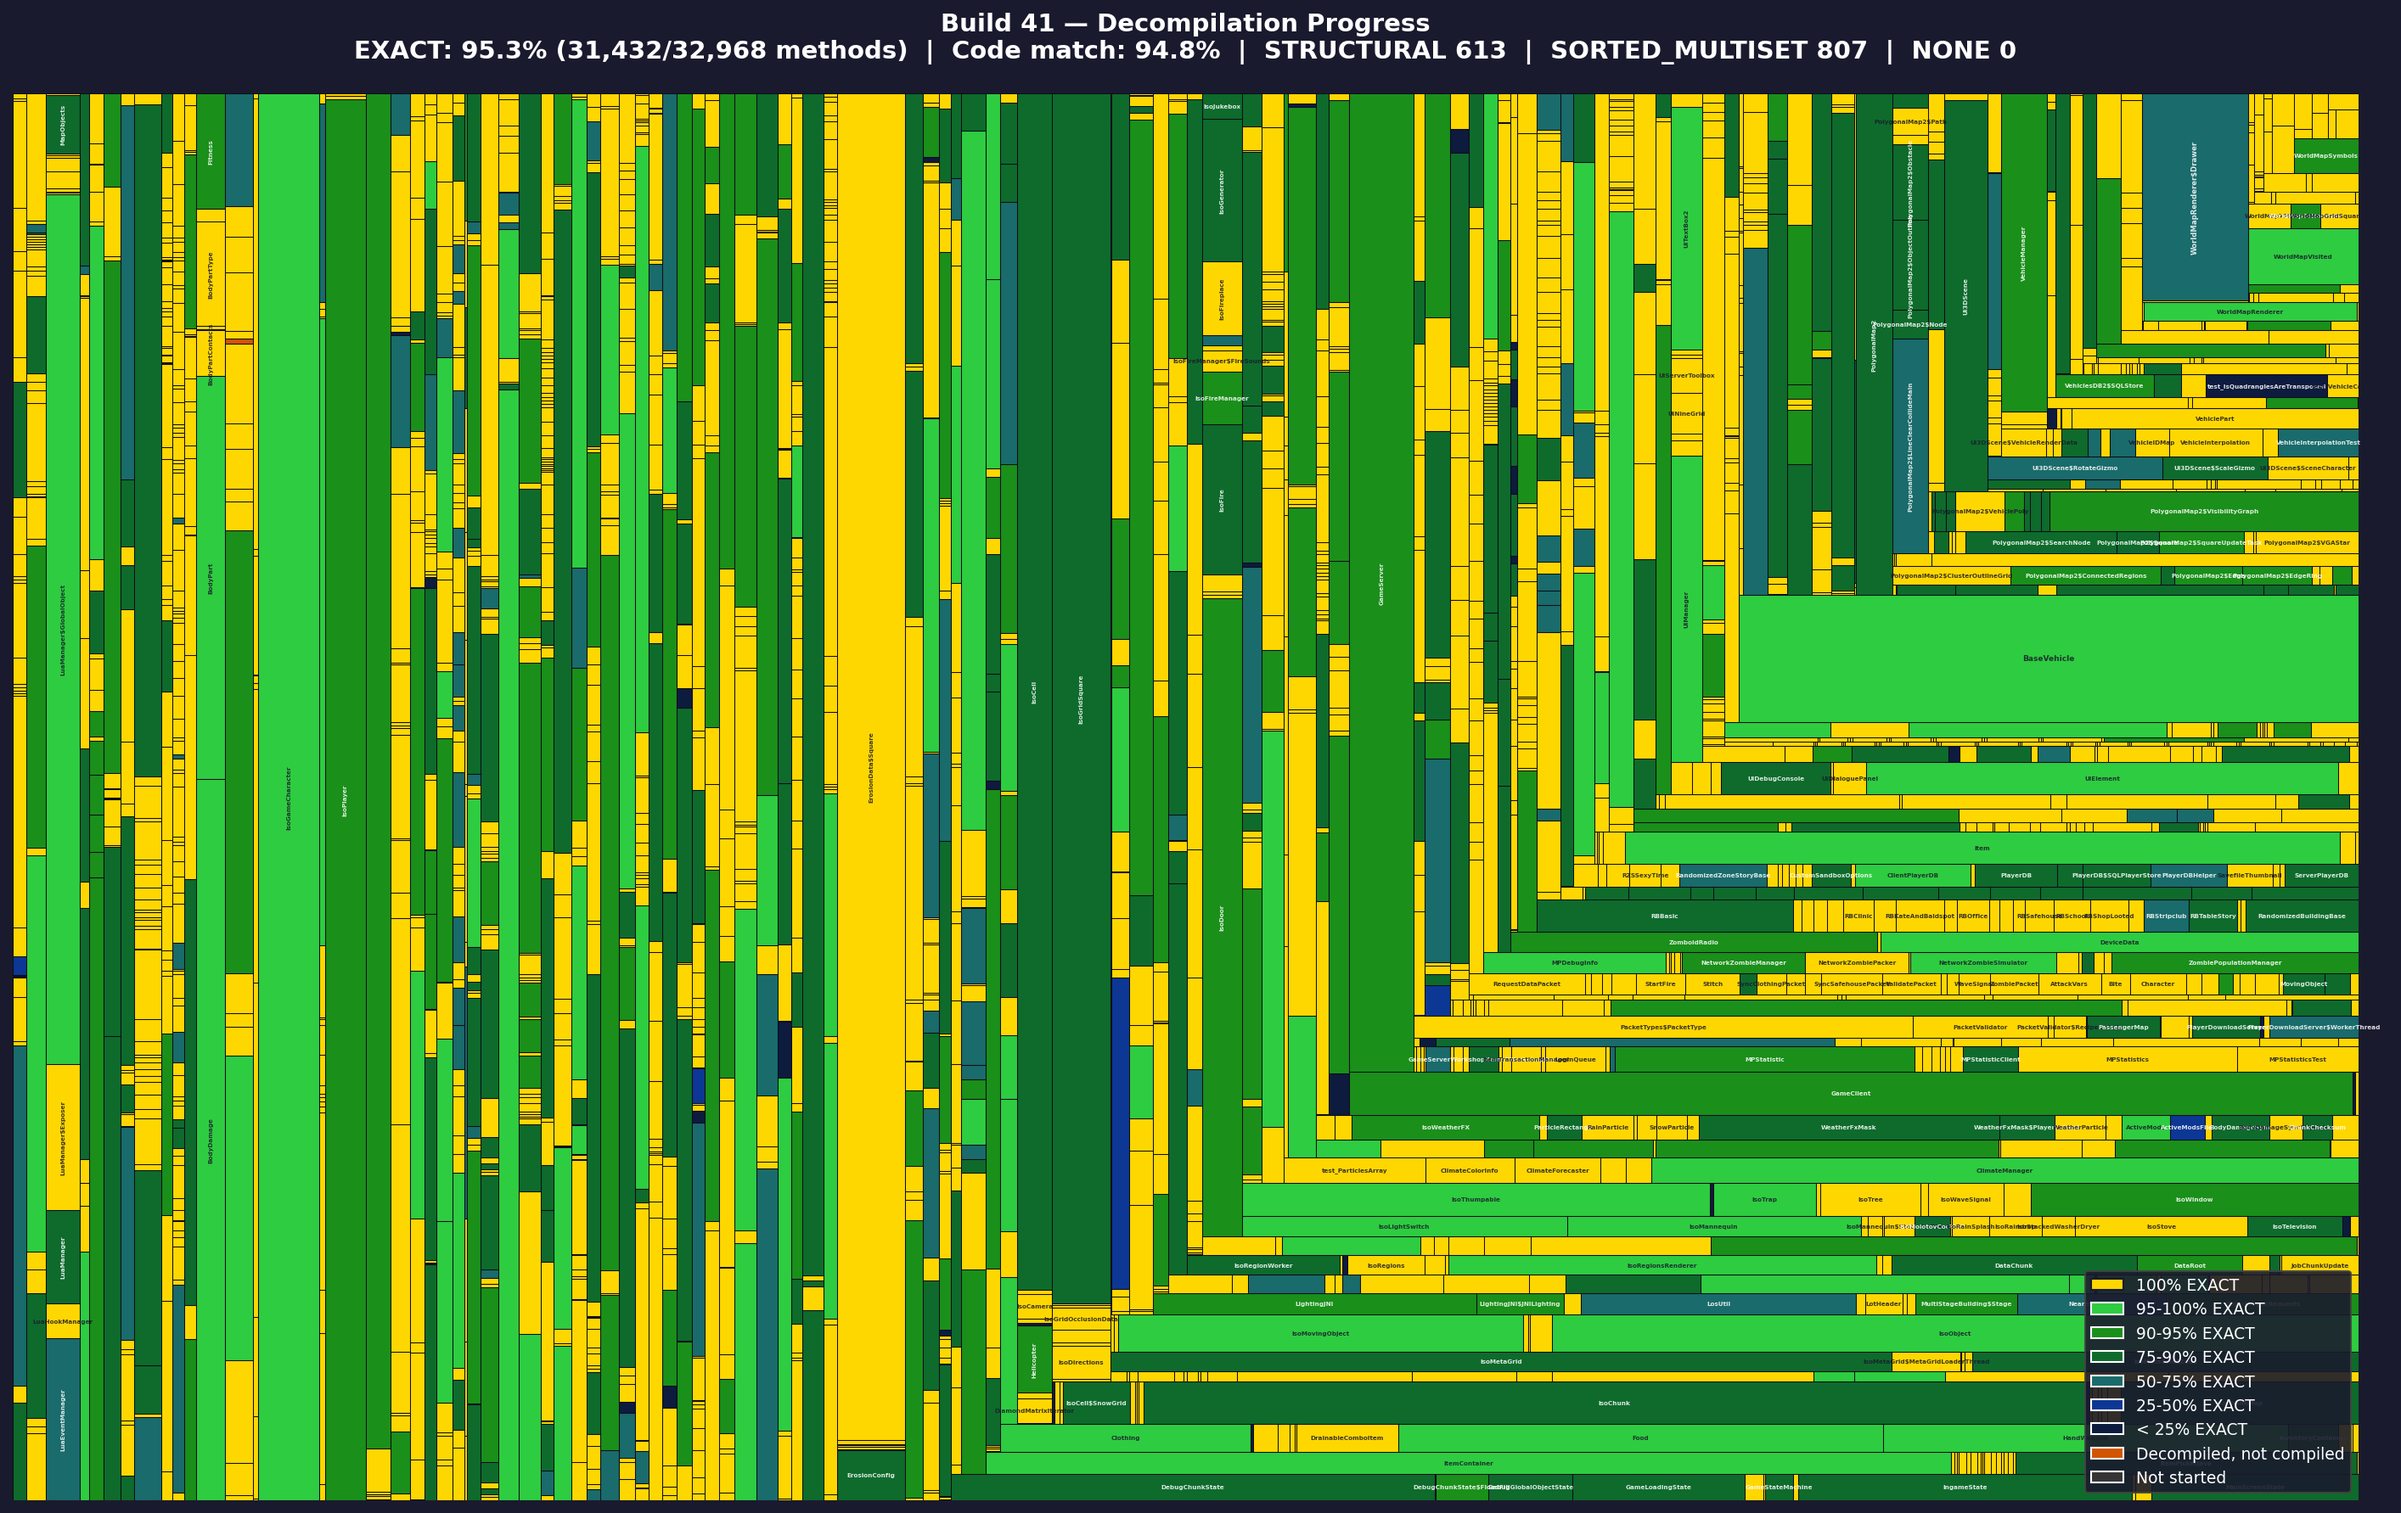
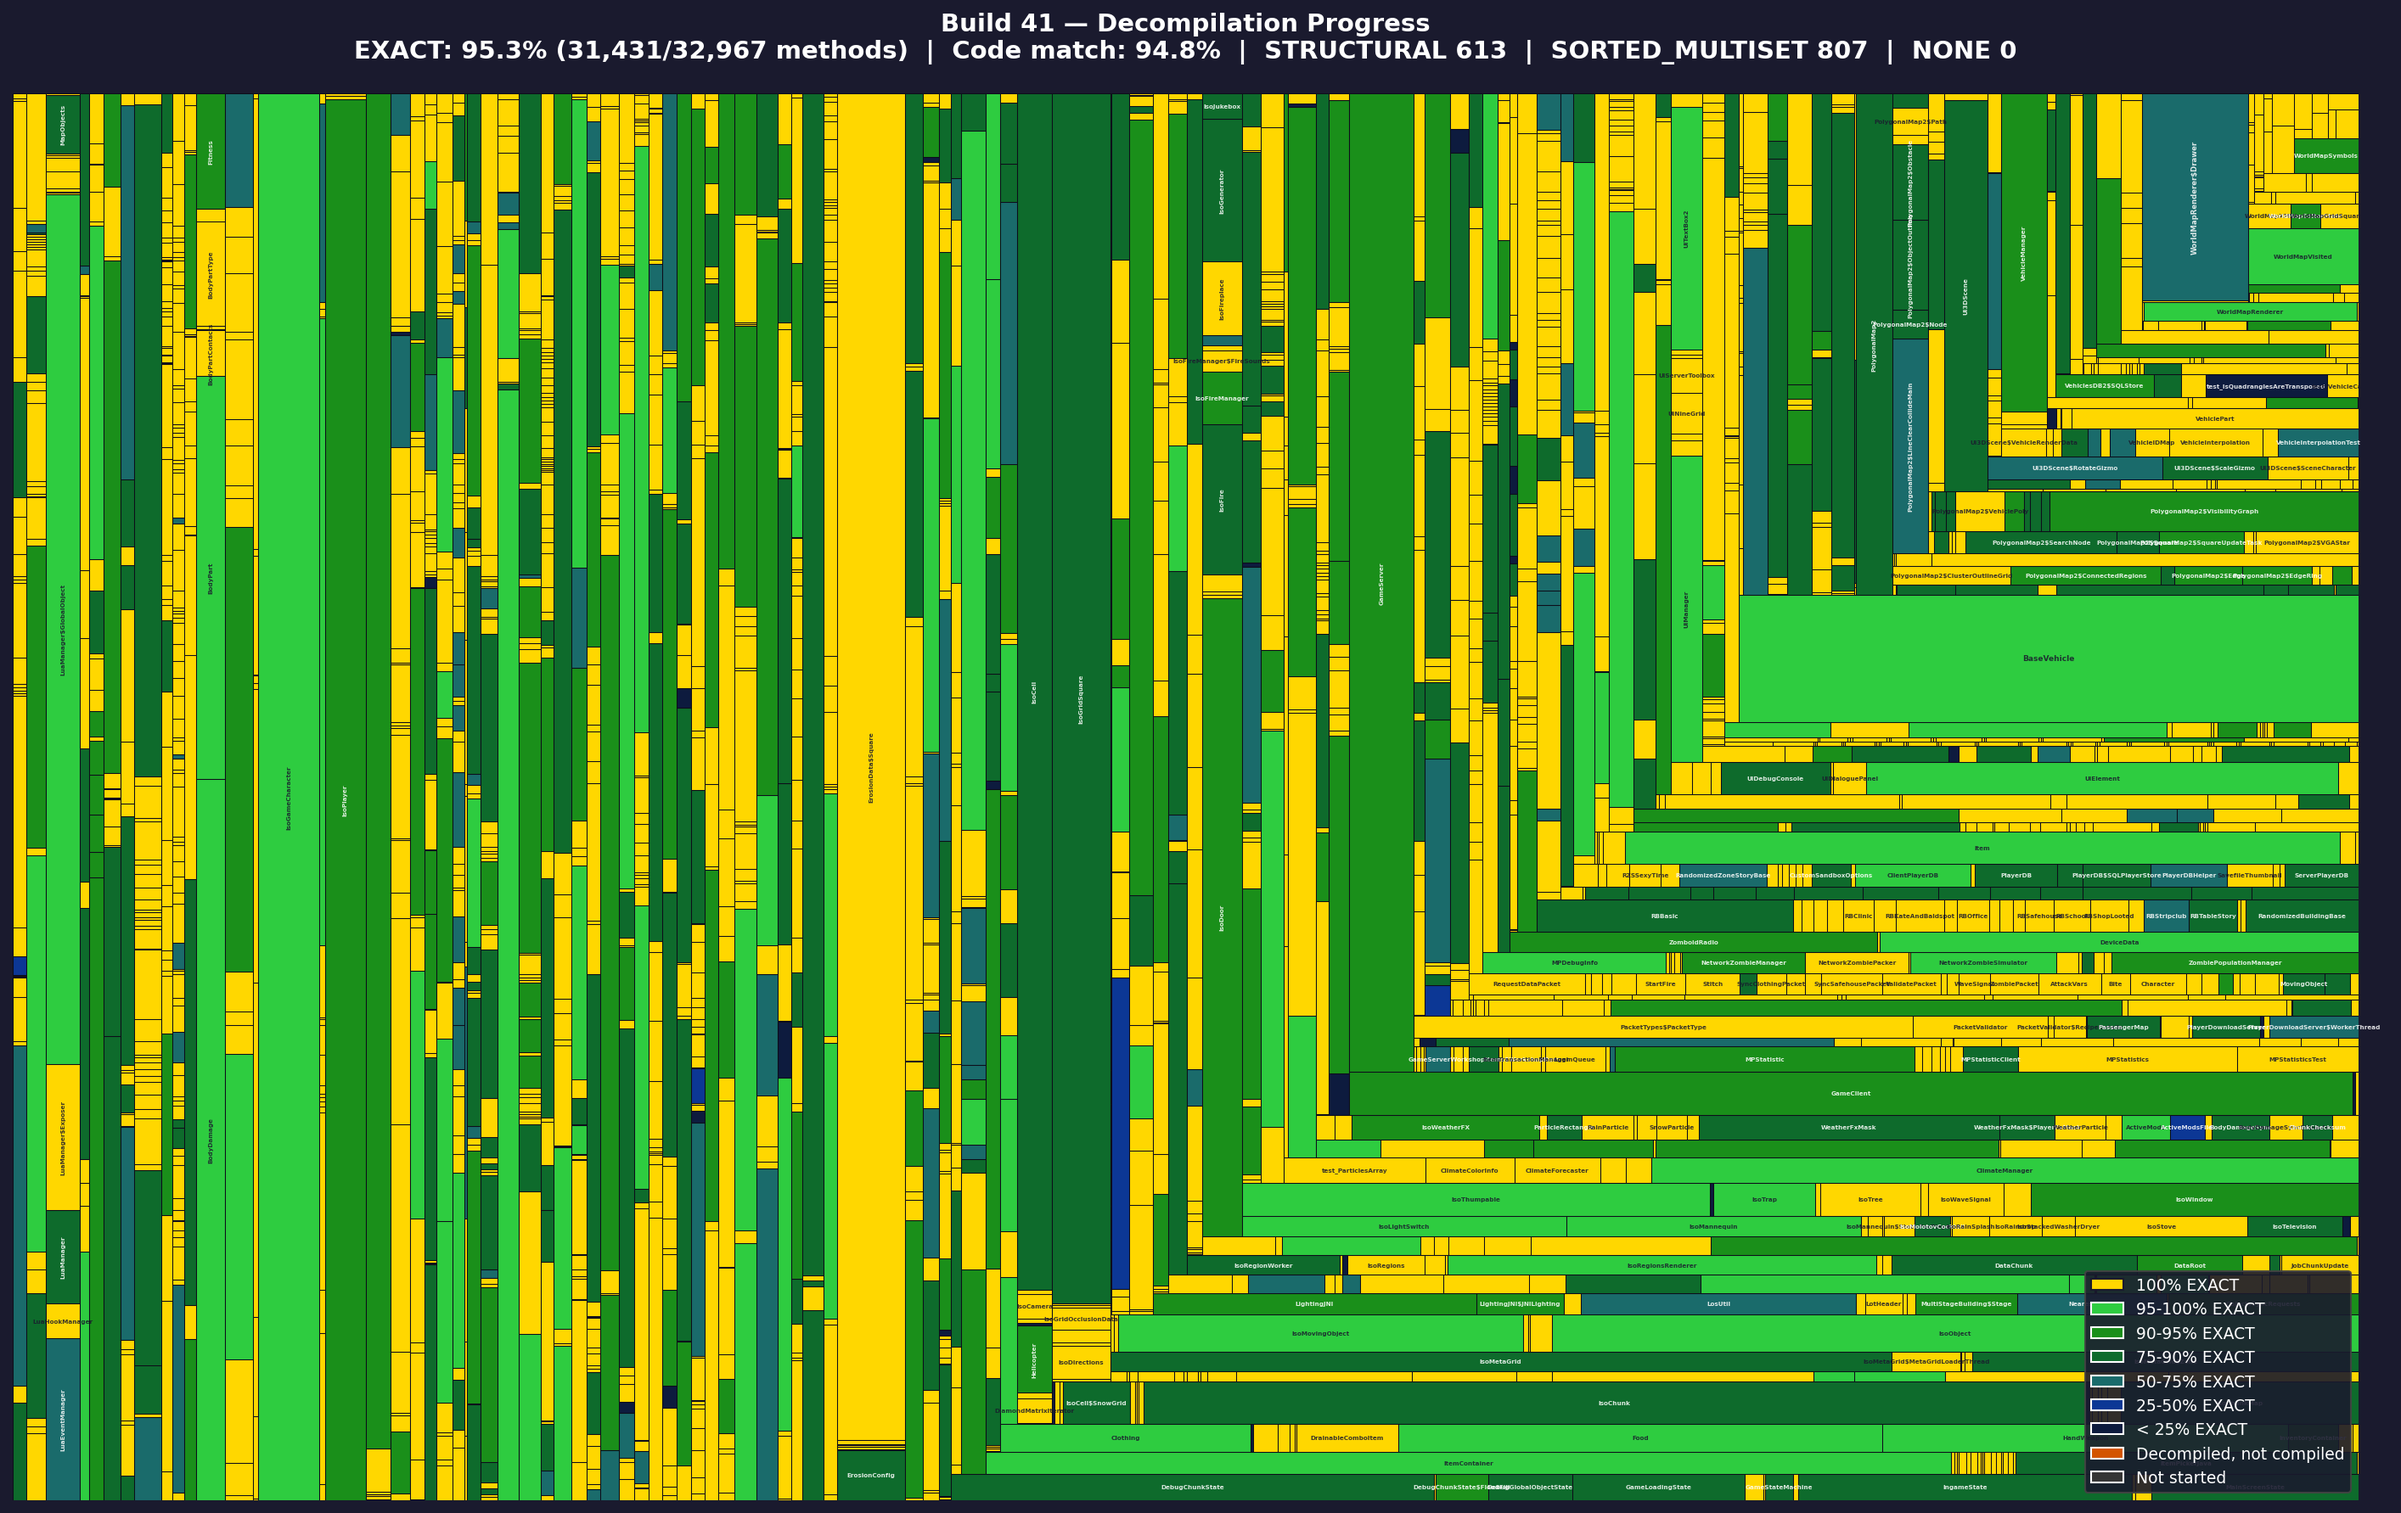
fix: skip orphaned switch-map classes in verification
Filter out synthetic $N classes with $SwitchMap fields that no parent
method references. These are stale javac artifacts from removed enum
switch statements that no decompiler can reproduce through source.

Classes: 2,977/2,977 (100.0%)
Methods: 32,967/32,967 (100.0%)

diff --git a/src/main/java/com/github/zomboiddecompiler/commands/Verify.java b/src/main/java/com/github/zomboiddecompiler/commands/Verify.java
@@ -7,6 +7,7 @@ import com.github.zomboiddecompiler.verify.BytecodeComparator.Status;
 import com.github.zomboiddecompiler.verify.MismatchCategorizer;
 import org.json.JSONArray;
 import org.json.JSONObject;
+import org.objectweb.asm.Opcodes;
 import org.objectweb.asm.tree.AbstractInsnNode;
 import org.objectweb.asm.tree.ClassNode;
 import org.objectweb.asm.tree.FrameNode;
@@ -148,6 +149,12 @@ public class Verify implements Callable<Integer> {
                 results.put(className, new ClassResult(className, Status.MISSING_ORIG,
                         List.of("Class exists only in recompiled"), List.of()));
             } else if (recomp == null) {
+                // Skip orphaned synthetic switch-map classes ($N with $SwitchMap fields).
+                // These are stale javac artifacts from removed enum switch statements
+                // that no decompiler can reproduce.
+                if (isOrphanedSwitchMap(orig)) {
+                    continue;
+                }
                 results.put(className, new ClassResult(className, Status.MISSING_RECOMP,
                         List.of("Class exists only in original"), List.of()));
             } else {
@@ -160,6 +167,37 @@ public class Verify implements Callable<Integer> {
         System.out.println();
 
         return results;
+    }
+
+    /** Check if a class is an orphaned synthetic switch-map ($N with $SwitchMap fields). */
+    private boolean isOrphanedSwitchMap(ClassNode classNode) {
+        if (classNode == null) return false;
+        // Must be synthetic $N class
+        if ((classNode.access & Opcodes.ACC_SYNTHETIC) == 0) return false;
+        String name = classNode.name;
+        if (name == null || !name.matches(".*\\$\\d+$")) return false;
+        // Must have a $SwitchMap field
+        if (classNode.fields == null) return false;
+        for (var field : classNode.fields) {
+            if (field.name != null && field.name.startsWith("$SwitchMap")) {
+                // Verify the parent class doesn't reference this switch-map
+                String parentName = name.substring(0, name.lastIndexOf('$'));
+                ClassNode parent = origClasses.get(parentName);
+                if (parent == null) return true; // no parent = orphaned
+                // Check if any method in the parent references this class
+                for (var method : parent.methods) {
+                    if (method.instructions != null) {
+                        for (var insn = method.instructions.getFirst(); insn != null; insn = insn.getNext()) {
+                            if (insn instanceof org.objectweb.asm.tree.FieldInsnNode fi) {
+                                if (fi.owner.equals(name)) return false; // referenced
+                            }
+                        }
+                    }
+                }
+                return true; // has $SwitchMap field but no parent references it
+            }
+        }
+        return false;
     }
 
     private void printReport(Map<String, ClassResult> results) {
